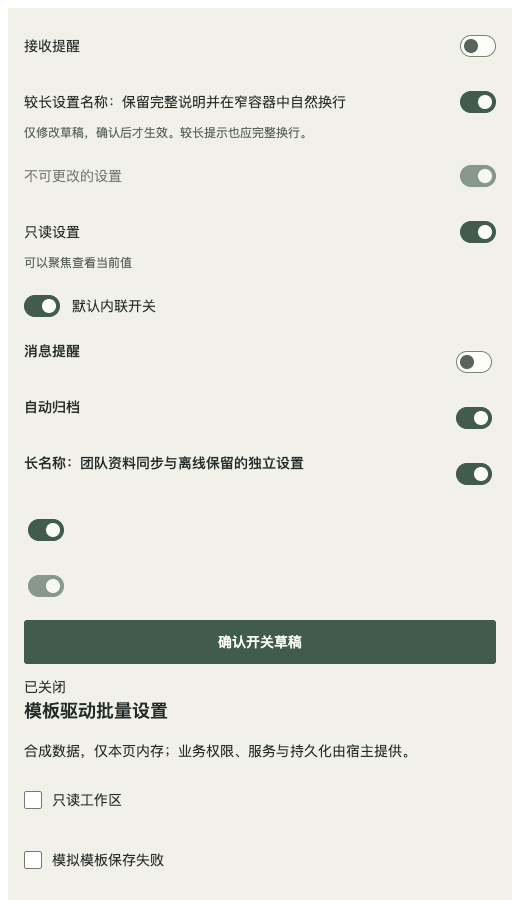
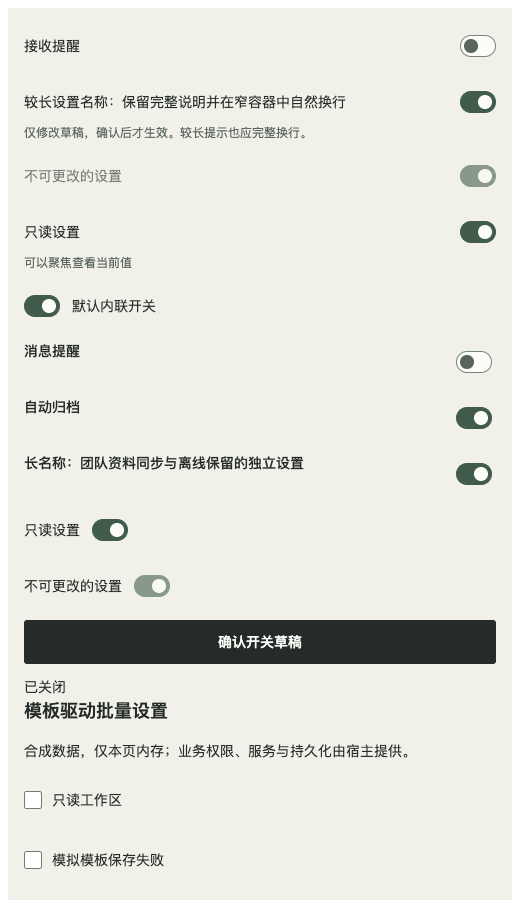
fix: reflow long mappings and preserve nested confirmation focus

Changed region(s): [[0.0308, 0.56, 0.9538, 0.7467]]

diff --git a/scripts/check-mapping-density.js b/scripts/check-mapping-density.js
@@ -8,9 +8,11 @@ async page => {
    await page.setViewportSize({width,height});await page.goto(`${base}/?fixture=template-settings&density=1&theme=${theme}&zoom=${zoom}`);
    const editor=page.getByRole('group',{name:'紧凑映射',exact:true}),grouped=page.getByRole('group',{name:'按目标汇合预览'}),readonly=page.getByRole('group',{name:'紧凑逐行只读'});
    if(probe==='density')await editor.evaluate(e=>e.classList.remove('rhine-mapping-editor--compact'));
+   if(probe==='long')await editor.locator('.rhine-mapping-editor__fields').nth(3).evaluate(e=>e.style.gridTemplateColumns='minmax(0,1fr) 20px minmax(0,1fr) auto');
    if(probe==='duplicate')await grouped.locator('.rhine-mapping-editor__target').first().evaluate(e=>e.parentElement.append(e.cloneNode(true)));
    const measure=async locator=>locator.evaluate(e=>({width:e.clientWidth,columns:getComputedStyle(e.querySelector('.rhine-mapping-editor__fields')).gridTemplateColumns.split(' ').length,overflow:e.scrollWidth>e.clientWidth+1}));
    const layout=await measure(editor),read=await measure(readonly);assert(layout.columns===(layout.width<360?1:4),'compact container breakpoint');assert(read.columns===(read.width<360?1:3),'readonly container breakpoint');assert(!layout.overflow&&!read.overflow,'editor overflow');
+   const longColumns=await editor.locator('.rhine-mapping-editor__fields').nth(3).evaluate(e=>getComputedStyle(e).gridTemplateColumns.split(' ').length);if(layout.width<800)assert(longColumns===1,'long selected names did not reflow');
    if(width===520&&zoom===1)assert(layout.width>=360&&layout.width<480&&layout.columns===4,'520 short mapping not horizontal at actual ~450px');
    const original=await measure(page.getByRole('group',{name:'默认映射布局'}));assert(original.columns===(original.width<480?1:3),'default layout changed');
    const targetText=await grouped.locator('.rhine-mapping-editor__target').allTextContents();assert(targetText.length===3&&targetText[0]==='目标：Beta'&&targetText[1]==='目标：Delta','targets duplicated or reordered');
@@ -19,7 +21,7 @@ async page => {
    const summary=page.getByRole('region',{name:'完整来源预览'});assert(await summary.getByText('6 个来源',{exact:true}).count()===1,'source count includes target nodes');assert(await summary.getByText('原名甲',{exact:true}).count()===1,'unchanged-name composition missing');await page.getByRole('group',{name:'空分组预览'}).getByText('暂无规则').waitFor();
    const textGeometry=await grouped.locator('.rhine-mapping-editor__value').evaluateAll(els=>els.map(e=>{const r=e.getBoundingClientRect(),p=e.closest('.rhine-mapping-editor').getBoundingClientRect();const walker=document.createTreeWalker(e,NodeFilter.SHOW_TEXT),rects=[];while(walker.nextNode()){const node=walker.currentNode;if(node.parentElement.closest('.rhine-sr-only'))continue;const range=document.createRange();range.selectNodeContents(node);rects.push(...range.getClientRects());}return {overflow:e.scrollWidth>e.clientWidth+1,inside:r.left>=p.left-1&&r.right<=p.right+1,lines:rects.every(b=>b.left>=p.left-1&&b.right<=p.right+1)};}));assert(textGeometry.every(r=>!r.overflow&&r.inside&&r.lines),'long grouped text clipped');
    const targets=await editor.locator('select,button').evaluateAll(els=>els.map(e=>({w:e.getBoundingClientRect().width/Number(getComputedStyle(document.documentElement).zoom),h:e.getBoundingClientRect().height/Number(getComputedStyle(document.documentElement).zoom)})));assert(targets.every(r=>r.w>=44&&r.h>=44),'compact target below 44');
-   const source=editor.getByRole('combobox',{name:'第1行 来源'}),target=editor.getByRole('combobox',{name:'第1行 目标'});await source.focus();await source.press('g');assert(await source.inputValue()==='c','native source typeahead');await page.keyboard.press('Tab');assert(await target.evaluate(e=>e===document.activeElement),'forward Tab target');await target.press('d');assert(await target.inputValue()==='d','native target typeahead');await page.keyboard.press('Shift+Tab');assert(await source.evaluate(e=>e===document.activeElement),'reverse Tab source');
+   const source=editor.getByRole('combobox',{name:'第1行 来源'}),target=editor.getByRole('combobox',{name:'第1行 目标'});await source.selectOption('long');if(layout.width<800)assert(await editor.locator('.rhine-mapping-editor__fields').first().evaluate(e=>getComputedStyle(e).gridTemplateColumns.split(' ').length)===1,'selected long name did not reflow');await source.selectOption('a');assert(await editor.locator('.rhine-mapping-editor__fields').first().evaluate(e=>getComputedStyle(e).gridTemplateColumns.split(' ').length)===(layout.width<360?1:4),'short name did not return to row');await source.focus();await source.press('g');assert(await source.inputValue()==='c','native source typeahead');await page.keyboard.press('Tab');assert(await target.evaluate(e=>e===document.activeElement),'forward Tab target');await target.press('d');assert(await target.inputValue()==='d','native target typeahead');await page.keyboard.press('Shift+Tab');assert(await source.evaluate(e=>e===document.activeElement),'reverse Tab source');
    await editor.getByRole('button',{name:'添加规则'}).click();assert(await editor.getByRole('combobox',{name:'第5行 来源'}).evaluate(e=>e===document.activeElement),'add focus');await editor.getByRole('button',{name:'删除第5行'}).click();assert(await editor.getByRole('combobox',{name:'第4行 来源'}).evaluate(e=>e===document.activeElement),'delete focus');
    results.push({...c,pass:true,editorWidth:layout.width});
   }catch(error){results.push({...c,pass:false,error:String(error)});}

diff --git a/scripts/check-mapping-measurement.js b/scripts/check-mapping-measurement.js
@@ -1,0 +1,22 @@
+async page => {
+ page.setDefaultTimeout(7000);const {base,probe}=await page.evaluate(()=>({base:new URL('./',location.href).href.replace(/\/$/,''),probe:new URL(location.href).searchParams.get('measurementProbe')}));const errors=[];page.on('pageerror',e=>errors.push(String(e)));const assert=(ok,m)=>{if(!ok)throw Error(m);};
+ await page.addInitScript(()=>{const Native=window.ResizeObserver;window.mappingObserverAudit={active:0,disconnected:0};window.ResizeObserver=class extends Native{tracked=false;observe(node,options){if(node.classList.contains('rhine-mapping-editor')&&!this.tracked){this.tracked=true;window.mappingObserverAudit.active++;}super.observe(node,options);}disconnect(){if(this.tracked){window.mappingObserverAudit.active--;window.mappingObserverAudit.disconnected++;this.tracked=false;}super.disconnect();}};});
+ const results=[];
+ for(const theme of ['rhine','arknights','neo-brutalism']){
+  try{
+   await page.setViewportSize({width:880,height:900});await page.goto(`${base}/?fixture=template-settings&density=1&theme=${theme}`);const editor=page.getByRole('group',{name:'紧凑映射',exact:true}),source=editor.getByRole('combobox',{name:'第1行 来源'});
+   await source.selectOption('moderate');
+   const width=await editor.evaluate(e=>{const fields=e.querySelector('.rhine-mapping-editor__fields'),select=fields.querySelector('select'),style=getComputedStyle(select),measure=fields.querySelector('.rhine-mapping-editor__measure>span');const minimum=measure.offsetWidth+parseFloat(style.paddingLeft)+parseFloat(style.paddingRight)+parseFloat(style.borderLeftWidth)+parseFloat(style.borderRightWidth);const needed=minimum*2+20+fields.querySelector('button').offsetWidth+24;e.style.width=`${needed-8}px`;return needed-8;});
+   assert(width>=360,'invalid action-boundary fixture');await page.waitForFunction(()=>document.querySelector('[aria-label="紧凑映射"] .rhine-mapping-editor__fields').classList.contains('rhine-mapping-editor__fields--long'));
+   await page.getByRole('checkbox',{name:'显示移除动作'}).uncheck();await page.waitForFunction(()=>!document.querySelector('[aria-label="紧凑映射"] .rhine-mapping-editor__fields').classList.contains('rhine-mapping-editor__fields--long'));await page.getByRole('checkbox',{name:'显示移除动作'}).check();await page.waitForFunction(()=>document.querySelector('[aria-label="紧凑映射"] .rhine-mapping-editor__fields').classList.contains('rhine-mapping-editor__fields--long'));
+   await editor.evaluate(e=>e.style.width='700px');await page.waitForFunction(()=>!document.querySelector('[aria-label="紧凑映射"] .rhine-mapping-editor__fields').classList.contains('rhine-mapping-editor__fields--long'));
+   await page.locator('.rhine-theme').evaluate(e=>e.style.setProperty('--rhine-text-body','28px'));await page.waitForFunction(()=>{const e=document.querySelector('[aria-label="紧凑映射"]');return getComputedStyle(e.querySelector('select')).font===getComputedStyle(e.querySelector('.rhine-mapping-editor__measure>span')).font && e.querySelector('.rhine-mapping-editor__fields').classList.contains('rhine-mapping-editor__fields--long');});
+   await page.locator('.rhine-theme').evaluate(e=>e.style.removeProperty('--rhine-text-body'));await editor.evaluate(e=>e.style.width='360px');
+   await editor.locator('.rhine-mapping-editor__measure>span').first().evaluate(e=>e.textContent='超长测量文本'.repeat(100));await page.waitForFunction(()=>document.querySelector('[aria-label="紧凑映射"] .rhine-mapping-editor__measure>span').offsetWidth>1000);
+   if(probe==='overflow')await editor.locator('.rhine-mapping-editor__measure').first().evaluate(e=>e.style.overflow='visible');
+   const overflow=await editor.evaluate(e=>({editor:e.scrollWidth>e.clientWidth+1,document:document.documentElement.scrollWidth>document.documentElement.clientWidth+1,measure:e.querySelector('.rhine-mapping-editor__measure>span').offsetWidth,clip:getComputedStyle(e.querySelector('.rhine-mapping-editor__measure')).overflow}));assert(!overflow.editor&&!overflow.document&&overflow.clip==='hidden','hidden measuring text creates scroll overflow');results.push({theme,pass:true,width,overflow});
+  }catch(error){results.push({theme,pass:false,error:String(error)});}
+ }
+ await page.goto(`${base}/#template-settings`);await page.getByRole('group',{name:'紧凑映射',exact:true}).waitFor();const before=await page.evaluate(()=>window.mappingObserverAudit.active);await page.evaluate(()=>location.hash='foundation');await page.getByRole('group',{name:'紧凑映射',exact:true}).waitFor({state:'detached'});const after=await page.evaluate(()=>window.mappingObserverAudit);const cleanup=before>0&&after.active===0&&after.disconnected>0;
+ return {pass:results.every(r=>r.pass)&&cleanup&&!errors.length,results,cleanup:{pass:cleanup,before,after},errors};
+}

diff --git a/components/MappingEditor.tsx b/components/MappingEditor.tsx
@@ -66,6 +66,38 @@ export function MappingEditor({label, rows, sourceOptions, targetOptions, onRowC
     }
     (root.current?.querySelector<HTMLButtonElement>('[data-mapping-add]:not(:disabled)') || root.current)?.focus();
   });
+  useLayoutEffect(()=>{
+    if(!root.current) return;
+    if(density!=='compact' || readOnly) {root.current.querySelectorAll('.rhine-mapping-editor__fields--long').forEach(node=>node.classList.remove('rhine-mapping-editor__fields--long'));return;}
+    const editor=root.current;
+    const reflow=()=>{
+      for(const row of nodes.current.values()) {
+        const fields=row.querySelector<HTMLElement>('.rhine-mapping-editor__fields');
+        if(!fields) continue;
+        const measures=[...fields.querySelectorAll<HTMLElement>('.rhine-mapping-editor__measure>span')];
+        const selects=[...fields.querySelectorAll<HTMLSelectElement>('select')];
+        if(measures.length!==2 || selects.length!==2) {fields.classList.remove('rhine-mapping-editor__fields--long');continue;}
+        const needed=measures.map((measure,index)=>{
+          const style=getComputedStyle(selects[index]);
+          measure.style.font=style.font;measure.style.letterSpacing=style.letterSpacing;
+          return Math.max(44,measure.offsetWidth+parseFloat(style.paddingLeft)+parseFloat(style.paddingRight)+parseFloat(style.borderLeftWidth)+parseFloat(style.borderRightWidth));
+        });
+        const action=fields.querySelector<HTMLButtonElement>('button');
+        const gap=parseFloat(getComputedStyle(editor).getPropertyValue('--rhine-space-2')) || 8;
+        // Equal columns keep arrows aligned; the wider current value sets both minima.
+        const required=Math.max(...needed)*2+20+(action?.offsetWidth || 0)+gap*(action?3:2);
+        fields.classList.toggle('rhine-mapping-editor__fields--long',required>editor.clientWidth);
+      }
+    };
+    reflow();
+    if(typeof ResizeObserver==='undefined') return;
+    const observer=new ResizeObserver(reflow);observer.observe(editor);
+    editor.querySelectorAll('.rhine-mapping-editor__measure>span').forEach(node=>observer.observe(node));
+    const theme=editor.closest('.rhine-theme'),themeObserver=new MutationObserver(reflow);
+    if(theme)themeObserver.observe(theme,{attributes:true,attributeFilter:['class','style','data-rhine-theme']});
+    document.fonts?.addEventListener('loadingdone',reflow);
+    return ()=>{observer.disconnect();themeObserver.disconnect();document.fonts?.removeEventListener('loadingdone',reflow);};
+  },[density,readOnly,rows,sourceOptions,targetOptions,Boolean(onRemove)]);
   const options=(items:readonly Choice[], value:string, placeholder:string)=> <>
     <option value="">{placeholder}</option>
     {value && !items.some(item=>item.value===value) && <option value={value} disabled>{value}（不可用）</option>}
@@ -93,6 +125,8 @@ export function MappingEditor({label, rows, sourceOptions, targetOptions, onRowC
         const locked=disabled || row.disabled, viewing=readOnly || row.readOnly, errorId=`${id}-${encodeURIComponent(row.id)}-error`;
         return <li key={row.id} ref={element=>{if(element) nodes.current.set(row.id,element);else nodes.current.delete(row.id);}} className="rhine-mapping-editor__row" aria-label={prefix}>
           <div className="rhine-mapping-editor__fields">
+            {density==='compact' && !viewing && <><span className="rhine-mapping-editor__measure" aria-hidden="true"><span>{display(source,row.source,sourcePlaceholder)}</span></span><span className="rhine-mapping-editor__measure" aria-hidden="true"><span>{display(target,row.target,targetPlaceholder)}</span></span></>}
+
             {viewing ? <><div className="rhine-mapping-editor__value"><span className="rhine-sr-only">{prefix} {sourceLabel}：</span>{source.find(item=>item.value===row.source)?.label || (row.source ? `${row.source}（不可用）` : sourcePlaceholder)}</div><span className="rhine-mapping-editor__arrow" aria-hidden="true">→</span><div className="rhine-mapping-editor__value"><span className="rhine-sr-only">{prefix} {targetLabel}：</span>{target.find(item=>item.value===row.target)?.label || (row.target ? `${row.target}（不可用）` : targetPlaceholder)}</div></> : <>
               <Select className="rhine-mapping-editor__field" label={`${prefix} ${sourceLabel}`} value={row.source} disabled={locked} aria-invalid={Boolean(row.error) || undefined} aria-describedby={row.error ? errorId : undefined} onChange={e=>{if(!locked) onRowChange(row.id,{source:e.target.value,target:row.target});}}>{options(source,row.source,sourcePlaceholder)}</Select>
               <span className="rhine-mapping-editor__arrow" aria-hidden="true">→</span>

diff --git a/components/Forms.tsx b/components/Forms.tsx
@@ -60,6 +60,11 @@ export interface ComboboxProps {
   selectedValues?: string[]; closeOnSelect?: boolean; onEmptyBackspace?: () => void; completionLabel?: string;
   open?: boolean; onOpenChange?: (open: boolean) => void;
 }
+// Portaled nested dialogs remain owned by their trigger inside the parent dialog.
+function isOwnedNestedDialog(dialog: Element, target: Element | null) {
+  const nested=target?.closest('[role=dialog],[role=alertdialog]');
+  return Boolean(nested && nested!==dialog && [...dialog.querySelectorAll('[aria-haspopup=dialog][aria-controls]')].some(trigger=>trigger.getAttribute('aria-controls')===nested.id));
+}
 export function Combobox({ label, query, onQueryChange, value, onValueChange, options, loading = false, error, disabled = false, readOnly = false, placeholder, hint, id: suppliedId, selectedValues, closeOnSelect = true, onEmptyBackspace, completionLabel, hasMore = false, onLoadMore, loadingMore = false, loadMoreError, onRetry, open: controlledOpen, onOpenChange }: ComboboxProps) {
   const generatedId = useId(), id = suppliedId || generatedId; const composing = useRef(false);
   const floatingRef = useFloatingScale(undefined, 'popover', 240);
@@ -105,6 +110,8 @@ export function Combobox({ label, query, onQueryChange, value, onValueChange, op
       if (!dialog.isConnected || dialog.dataset.state !== 'open') return;
       const target = event.target;
       if (!(target instanceof HTMLElement)) return;
+      // A nested Dialog is portaled beside its parent; its trigger still proves ownership.
+      if(isOwnedNestedDialog(dialog,target)) return;
       if (dialog.contains(target)) lastInside = target;
       else if (!document.getElementById(`${id}-popup`)?.contains(target) && lastInside?.isConnected) {
         lastInside.focus({ preventScroll: true });
@@ -164,7 +171,7 @@ export function Combobox({ label, query, onQueryChange, value, onValueChange, op
       // only for a keyboard exit from a still-open Rhine modal.
       const dialog = root.current?.closest('.rhine-dialog[data-state="open"]');
       const active = document.activeElement;
-      if (active?.hasAttribute('data-radix-focus-guard') || (dialog && !dialog.contains(active))) {
+      if (active?.hasAttribute('data-radix-focus-guard') || (dialog && !dialog.contains(active) && !isOwnedNestedDialog(dialog,active))) {
         complete();
         // This close callback is already consuming the focus restoration.
         restoreInputOnClose.current = false;

diff --git a/preview/TemplateSettingsGallery.tsx b/preview/TemplateSettingsGallery.tsx
@@ -216,16 +216,19 @@ export function SwitchRowsExample() {
   </Stack></section>;
 }
 
+const densityOptions=[{value:'a',label:'Alpha'},{value:'b',label:'Beta'},{value:'c',label:'Gamma'},{value:'d',label:'Delta'},{value:'moderate',label:'Moderate mapping name'},{value:'long',label:'很长的来源名称：跨团队归档与完整内容在窄窗口中自然换行'}];
+const densityRows=[{id:'1',source:'a',target:'b'},{id:'2',source:'c',target:'d'},{id:'3',source:'b',target:'b'},{id:'4',source:'long',target:'long'}];
 export function MappingDensityExamples() {
-  const options=[{value:'a',label:'Alpha'},{value:'b',label:'Beta'},{value:'c',label:'Gamma'},{value:'d',label:'Delta'},{value:'long',label:'很长的来源名称：跨团队归档与完整内容在窄窗口中自然换行'}];
-  const initial=[{id:'1',source:'a',target:'b'},{id:'2',source:'c',target:'d'},{id:'3',source:'b',target:'b'},{id:'4',source:'long',target:'long'}];
+  const options=densityOptions,initial=densityRows;
+  const [removeEnabled,setRemoveEnabled]=useState(true);
   const [rows,setRows]=useState<MappingEditorRow[]>(initial);
   const next=useRef(5);
   return <section aria-label="紧凑映射与汇合预览" style={{paddingInline:16}}><Stack gap={3}>
     <Text as="h2" variant="section">紧凑映射与汇合预览</Text>
+    <Checkbox label="显示移除动作" checked={removeEnabled} onChange={e=>setRemoveEnabled(e.target.checked)} />
     <MappingEditor density="compact" label="紧凑映射" rows={rows} sourceOptions={options} targetOptions={options}
       onRowChange={(id,values)=>setRows(current=>current.map(row=>row.id===id?{...row,...values}:row))}
-      onRemove={id=>setRows(current=>current.filter(row=>row.id!==id))}
+      onRemove={removeEnabled ? id=>setRows(current=>current.filter(row=>row.id!==id)) : undefined}
       onAdd={()=>{const id=String(next.current++);setRows(current=>[...current,{id,source:'',target:''}]);return id;}} />
     <MappingEditor density="compact" label="紧凑逐行只读" rows={rows} sourceOptions={options} targetOptions={options} onRowChange={()=>{}} readOnly />
     <section aria-label="完整来源预览"><Stack gap={2}>

diff --git a/tests/ComboboxCloseFocus.test.tsx b/tests/ComboboxCloseFocus.test.tsx
@@ -17,3 +17,11 @@ it('does not close a newly reopened selector when the prior scope finishes',asyn
  act(()=>input.focus());fireEvent.click(screen.getByRole('button',{name:'完成选择'}));fireEvent.click(input);
  await act(async()=>{vi.runOnlyPendingTimers();});expect(input).toHaveFocus();expect(input).toHaveAttribute('aria-expanded','true');
 });
+
+it('yields a pending selector Tab guard to a parent-owned nested confirmation',async()=>{
+ vi.useFakeTimers();
+ function NestedHost(){const [query,setQuery]=useState('');return <Dialog title="父工作区" trigger={<Button>打开父层</Button>}><RemoteMultiSelect label="对象" query={query} onQueryChange={setQuery} value={[]} onValueChange={()=>{}} options={[]} /><Dialog title="保护草稿" trigger={<Button>打开确认</Button>}><Button>继续编辑</Button></Dialog></Dialog>;}
+ render(<NestedHost/>);fireEvent.click(screen.getByRole('button',{name:'打开父层'}));const input=screen.getByRole('combobox');act(()=>input.focus());
+ fireEvent.keyDown(input,{key:'Tab'});const complete=screen.getByRole('button',{name:'完成选择'});expect(complete).toHaveFocus();fireEvent.keyDown(complete,{key:'Tab'});
+ fireEvent.click(screen.getByRole('button',{name:'打开确认'}));const resume=screen.getByRole('button',{name:'继续编辑'});act(()=>resume.focus());expect(resume).toHaveFocus();await act(async()=>{vi.runOnlyPendingTimers();});expect(resume).toHaveFocus();
+});

diff --git a/tests/MappingEditor.test.tsx b/tests/MappingEditor.test.tsx
@@ -105,3 +105,13 @@ it('keeps custom empty content and unavailable values in grouped preview',()=>{
  const {rerender}=render(<MappingEditor {...props} rows={[]} emptyContent="尚无映射"/>);expect(screen.getByText('尚无映射')).toBeVisible();
  rerender(<MappingEditor {...props} rows={[{id:'x',source:'removed',target:''}]}/>);expect(screen.getByText('removed（不可用）')).toBeVisible();expect(screen.getByText('选择目标')).toBeVisible();
 });
+
+it('disconnects compact measurement observers on mode change and unmount',()=>{
+ const disconnect=vi.fn();class Observer {observe(){}disconnect(){disconnect();}unobserve(){}}
+ vi.stubGlobal('ResizeObserver',Observer);
+ try {
+  const props={label:'测量',rows:initial,sourceOptions:choices,targetOptions:choices,onRowChange:vi.fn()};
+  const {rerender,unmount}=render(<MappingEditor {...props} density="compact"/>);rerender(<MappingEditor {...props} density="compact" readOnly/>);expect(disconnect).toHaveBeenCalledTimes(1);
+  rerender(<MappingEditor {...props} density="compact"/>);unmount();expect(disconnect).toHaveBeenCalledTimes(2);
+ }finally{vi.unstubAllGlobals();}
+});

diff --git a/components/mapping-editor.css b/components/mapping-editor.css
@@ -41,3 +41,10 @@
  .rhine-mapping-editor__join { width:1px; height:12px; border-top:0; border-inline-start:1px solid var(--rhine-line); justify-self:center; }
  .rhine-mapping-editor__target { text-align:center; }
 }
+
+.rhine-mapping-editor__measure { position:absolute; visibility:hidden; pointer-events:none; width:0; height:0; overflow:hidden; }
+.rhine-mapping-editor__measure>span { display:block; white-space:pre; width:max-content; }
+.rhine-mapping-editor--compact .rhine-mapping-editor__fields--long,
+.rhine-mapping-editor--compact .rhine-mapping-editor__fields--long:not(:has(>button)) { grid-template-columns:minmax(0,1fr); gap:var(--rhine-space-1); }
+.rhine-mapping-editor--compact .rhine-mapping-editor__fields--long>.rhine-mapping-editor__arrow { justify-self:start; transform:rotate(90deg); }
+.rhine-mapping-editor--compact .rhine-mapping-editor__fields--long>button { justify-self:end; }

diff --git a/docs/TEMPLATE_SETTINGS.md b/docs/TEMPLATE_SETTINGS.md
@@ -63,7 +63,7 @@ const nextId = useRef(0);
 
 `tests/MappingEditor.test.tsx`验证受控回调、稳定行DOM、禁用/只读/错误、空目录值与增删焦点；`tests/TemplateSettings.test.tsx`验证保存和应用分离、混合目标、版本失效及失败重试。真实浏览器另验三主题四宽度、100/200% CSS zoom、648px短屏、长文重排、滚动、44px、键盘和系统/手动减少动态。CSS zoom不等于原生缩放，合成Memory状态不等于业务后端。
 
-新增密度/退出矩阵：`scripts/check-mapping-density.js`（48组实际容器/汇合/完整来源组合，`?densityProbe=density` 与 `duplicate` 提供反例）、`scripts/check-settings-density.js`（48组空态/首建/真实差异退出/跨入口草稿/完整批次重试）。
+新增密度/退出矩阵：`scripts/check-mapping-measurement.js`（三主题、实际字体/容器/删除动作变化、超长隐藏测量不扩展scrollWidth、真实展台卸载observer；`?measurementProbe=overflow`反例）、`scripts/check-mapping-density.js`（48组实际容器/汇合/完整来源组合，`?densityProbe=density` 、`duplicate` 与 `long` 提供反例）、`scripts/check-settings-density.js`（48组空态/首建/真实差异退出/跨入口草稿/完整批次重试）。
 
 浏览器回归入口：`scripts/check-template-settings.js`（48组布局/增删/草稿/只读禁用/键盘/滚轮，另测三种动态偏好）、`scripts/check-template-workflow.js`（24组模板管理与逐目标确认、宿主焦点交接）、`scripts/prepare-template-consumer.mjs <tarball> <new-directory>`（从实际已安装包提取同一合成例，公开入口及后置CSS生产构建）。
 
@@ -88,7 +88,7 @@ const nextId = useRef(0);
 
 ## 紧凑映射与按目标汇合（#89，未发布）
 
-`density="compact"` 按 **MappingEditor 实际可用宽度** 排列，360 CSS px 及以上保留来源 / 箭头 / 目标 / 删除；不足时回到纵排。默认 `density="default"` 仍为 480px 阈值。520px画布内约450px编辑器的短名称同排，200% CSS zoom下可用空间变窄后自然重排。字体与44px命中不缩小；编辑使用原生Select，长选项在打开原生菜单时查看完整文字，关闭态按既有Select契约省略；逐行只读值完整换行，目标用 label 字重。该变体不是强制单行或消费端私有CSS覆盖。
+`density="compact"` 按 **MappingEditor 实际可用宽度** 排列，360 CSS px 及以上保留来源 / 箭头 / 目标 / 删除；不足时回到纵排。默认 `density="default"` 仍为 480px 阈值。520px画布内约450px编辑器的短名称同排，200% CSS zoom下可用空间变窄后自然重排。字体与44px命中不缩小；紧凑编辑用当前选中标签的真实文本宽度（包括控件padding/箭头/动作）判断同排所需空间，长名称不足时纵排，ResizeObserver跟随容器和文字尺寸变化并卸载清理，主题与字体变化重新读取原生Select字体。测量文字位于0尺寸裁剪容器，不能增加横向滚动。极长选项超过整列时仍沿原生Select契约省略，可打开原生菜单查看完整文字；逐行只读值完整换行，目标用 label 字重。该变体不是强制单行或消费端私有CSS覆盖。
 
 `readOnly readOnlyLayout="grouped"` 将相同 **target 值** 的行仅在展示时汇合。分组顺序由目标首次出现决定，组内来源保持原行顺序；重复来源与 source=target 均不丢弃，原始数组和编辑顺序不变。即使传 grouped，非整组readOnly仍逐行编辑，不能用分组代替编辑校验。单来源、多来源和不同目标共用同一结构：目标每组一次，来源是具名列表，目标保留隐藏语义标签；连接线明确 aria-hidden、使用线条token，组间只有轻分隔线，无卡片、编号或重复可见表头。空数据沿用 emptyContent，缺失目录值和行错误仍可见。极窄时来源与目标纵向连接，完整文字可换行。
 
@@ -103,3 +103,5 @@ const nextId = useRef(0);
 - 未确认修改按宿主实际差异判断；选择与原值相同的模板不会产生未确认提示。模板草稿和应用差异分开持有；组件不推断业务dirty。
 
 真实入口 `?fixture=template-settings&density=1`，常规 `#template-settings` 同时提供完整组合。外部夹具可加载无模板、行错误、长列表及一次批量失败。保存失败为400ms合成异步，批量结果为内存模拟；不外推业务服务。源码、固定制品、发布和原消费接入分开验收；原消费的临时CSS和分组原型仅在获授权固定接入后移除，故源码合并不会关闭 #89。
+
+退出确认是父设置Dialog拥有的Portal：对象选择的快速Tab临时保护及延迟关闭归焦均识别父层trigger指向的嵌套Dialog，不把其焦点拉回旧选择器。继续编辑同步交还原控件，延迟清理尊重已经转移到其他有效控件的焦点。
